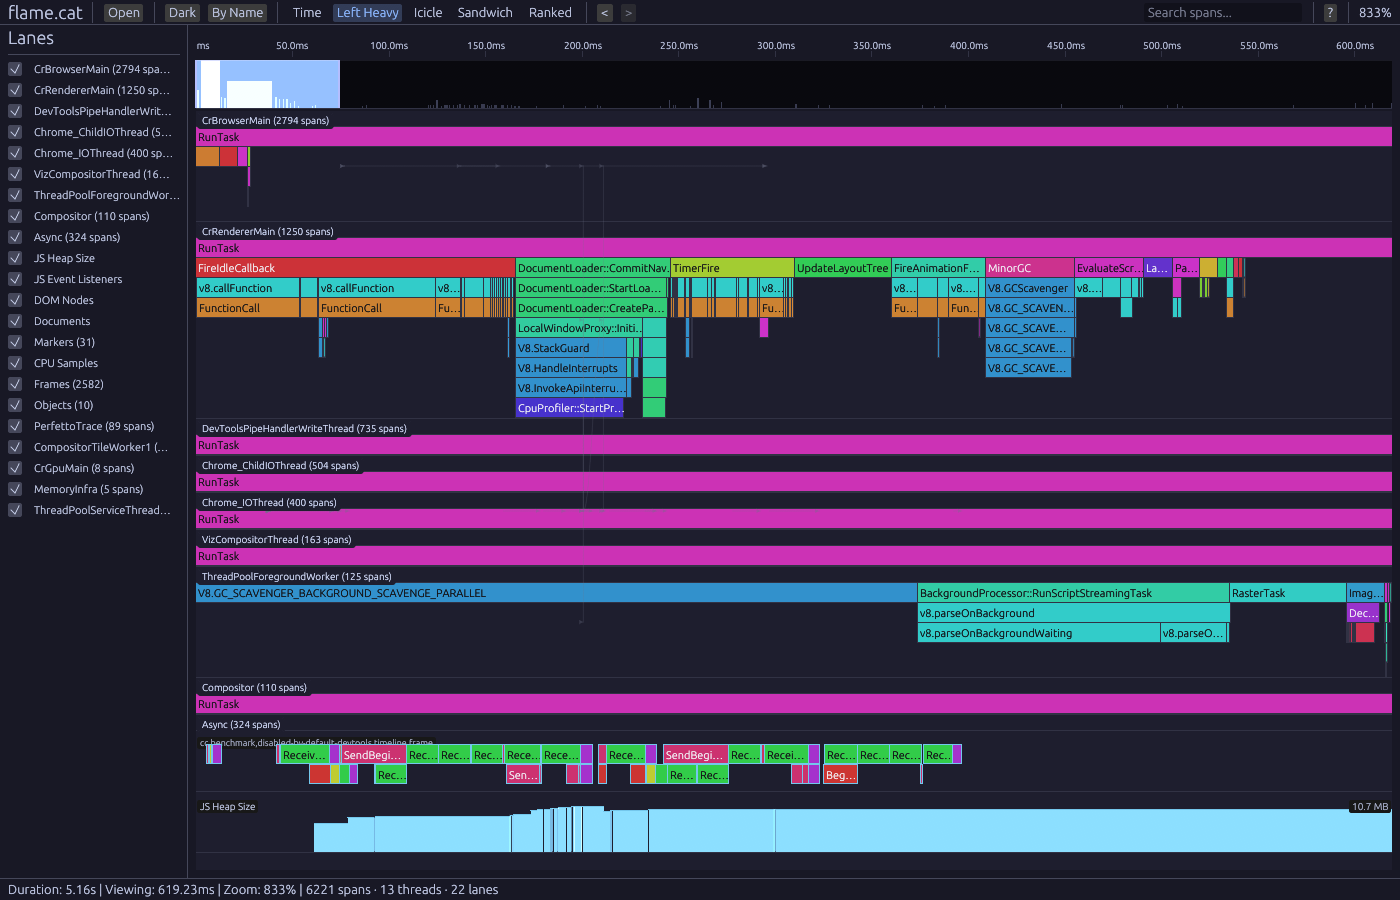
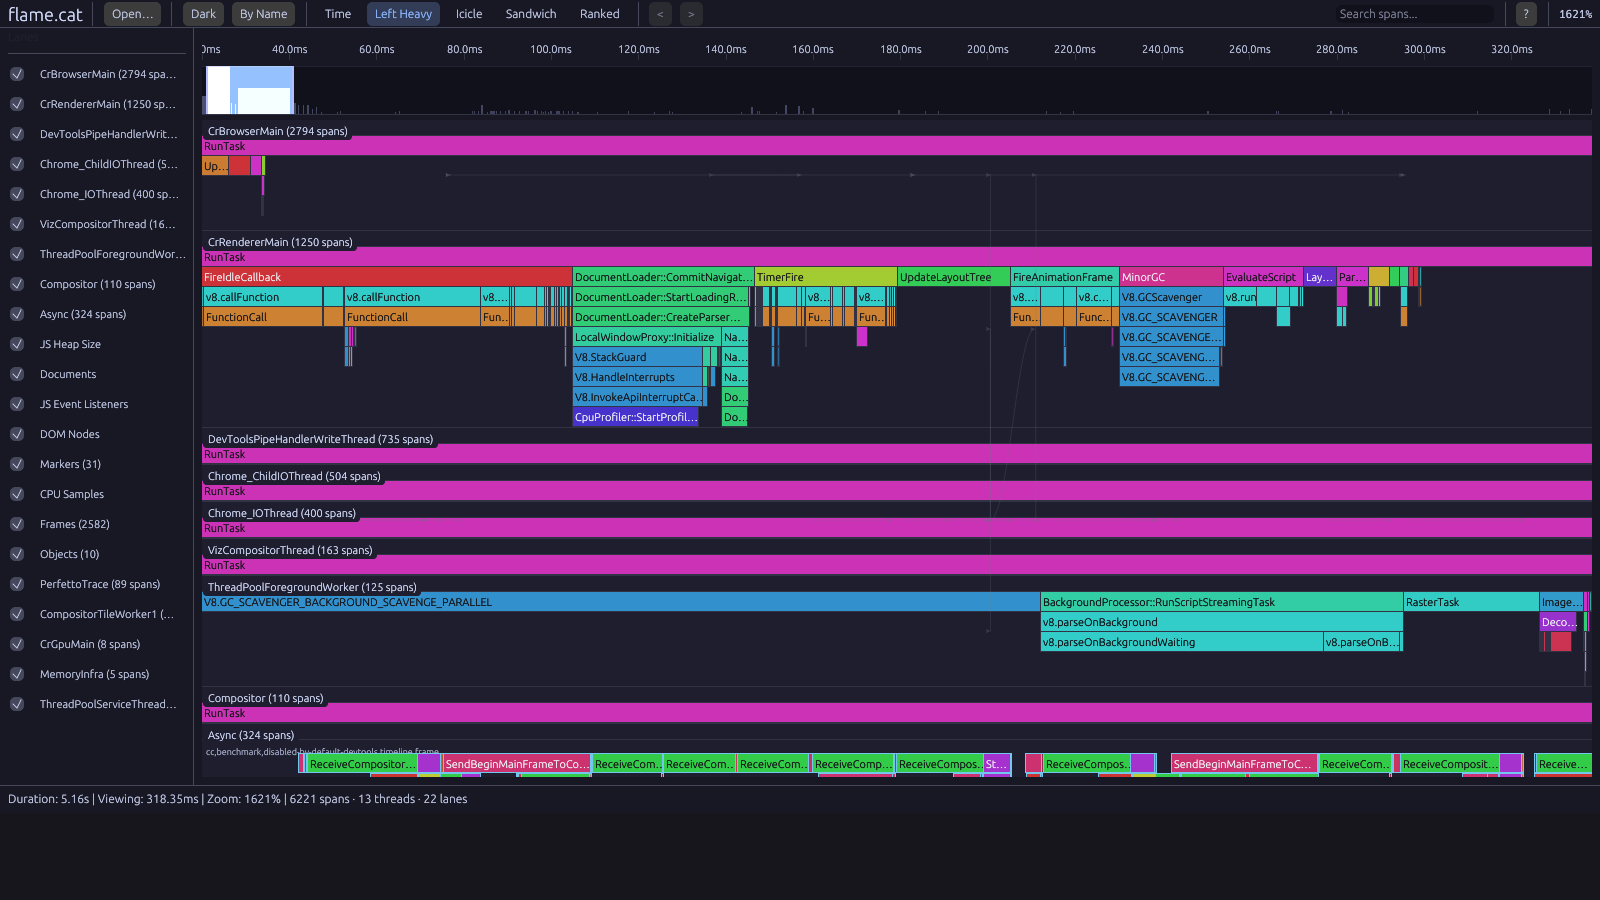
chore(ui): refresh screenshots with hash-based demo view presets
Add  hash support to select initial view type for deterministic
screenshot capture, update demo preload handling, and regenerate the four
README screenshots (time order, left-heavy, icicle, ranked).

diff --git a/crates/ui/index.html b/crates/ui/index.html
@@ -13,7 +13,7 @@
     <link data-trunk rel="copy-dir" href="assets" />
     <script>
         // Preload demo profile in parallel with WASM download
-        if (location.hash === '#demo') {
+        if (location.hash.startsWith('#demo')) {
             window.__demoData = fetch('/assets/demo.json')
                 .then(r => r.arrayBuffer())
                 .catch(() => null);

diff --git a/crates/ui/src/app.rs b/crates/ui/src/app.rs
@@ -153,6 +153,7 @@ impl FlameApp {
 
         let pending_data: std::sync::Arc<std::sync::Mutex<Option<Vec<u8>>>> =
             std::sync::Arc::new(std::sync::Mutex::new(None));
+        let mut initial_view_type = crate::ViewType::TimeOrder;
 
         // On WASM, check URL hash for auto-load (e.g. #demo)
         #[cfg(target_arch = "wasm32")]
@@ -160,13 +161,28 @@ impl FlameApp {
             let window = web_sys::window();
             if let Some(w) = window {
                 let hash = w.location().hash().unwrap_or_default();
-                if hash == "#demo" || hash == "#react-demo" || hash == "#react-devtools" {
+                if hash.contains("left-heavy") || hash.contains("left_heavy") {
+                    initial_view_type = crate::ViewType::LeftHeavy;
+                } else if hash.contains("icicle") {
+                    initial_view_type = crate::ViewType::Icicle;
+                } else if hash.contains("sandwich") {
+                    initial_view_type = crate::ViewType::Sandwich;
+                } else if hash.contains("ranked") {
+                    initial_view_type = crate::ViewType::Ranked;
+                }
+
+                if hash.starts_with("#demo")
+                    || hash.starts_with("#react-demo")
+                    || hash.starts_with("#react-devtools")
+                {
                     let pd = pending_data.clone();
                     let ctx = cc.egui_ctx.clone();
-                    let asset = match hash.as_str() {
-                        "#react-demo" => "/assets/react-demo.json",
-                        "#react-devtools" => "/assets/react-devtools-demo.json",
-                        _ => "/assets/demo.json",
+                    let asset = if hash.starts_with("#react-demo") {
+                        "/assets/react-demo.json"
+                    } else if hash.starts_with("#react-devtools") {
+                        "/assets/react-devtools-demo.json"
+                    } else {
+                        "/assets/demo.json"
                     };
                     web_sys::console::log_1(&format!("flame.cat: loading {asset}...").into());
                     wasm_bindgen_futures::spawn_local(async move {
@@ -211,7 +227,7 @@ impl FlameApp {
             view_start: 0.0,
             view_end: 1.0,
             theme_mode: ThemeMode::Dark,
-            view_type: crate::ViewType::TimeOrder,
+            view_type: initial_view_type,
             color_mode: crate::renderer::ColorMode::ByName,
             lane_commands: Vec::new(),
             scroll_y: 0.0,
